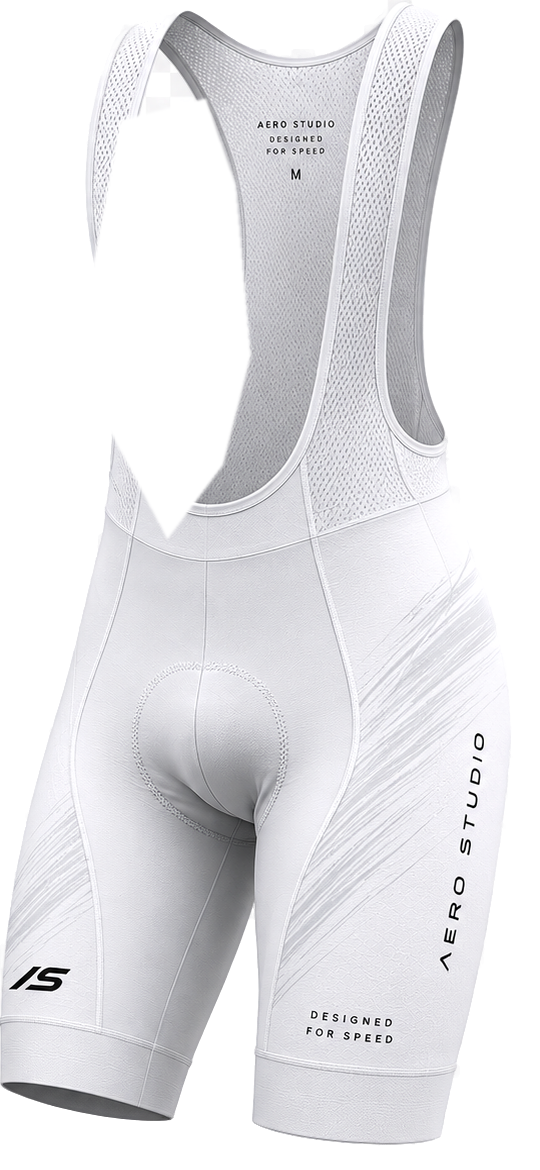
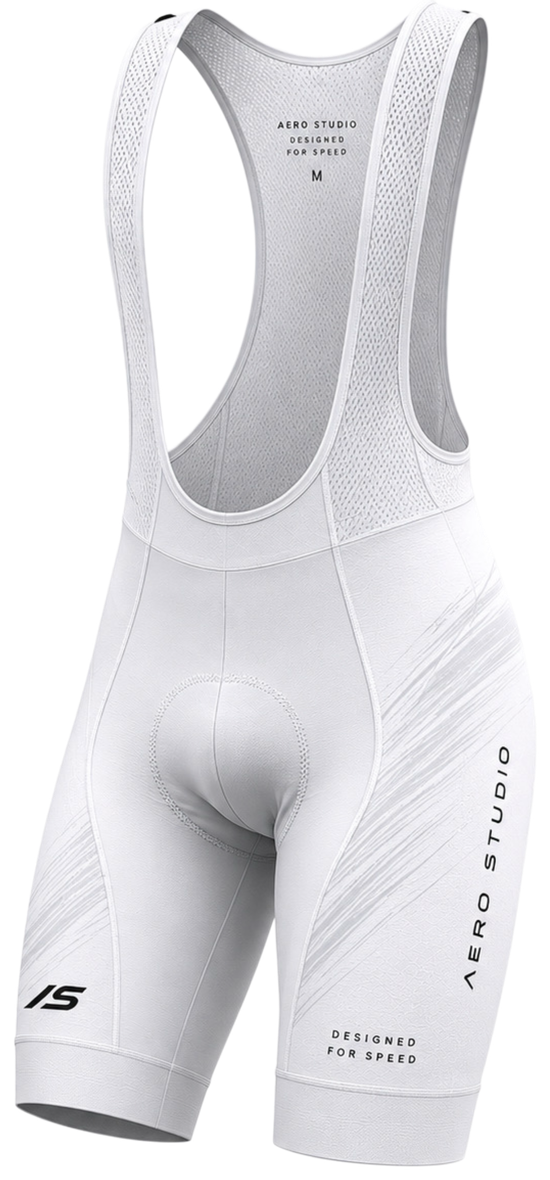
Use supplied transparent white kit assets

diff --git a/src/App.jsx b/src/App.jsx
@@ -9,6 +9,7 @@ const assets = {
   fabric: '/assets/fabric-detail.jpeg',
   helmet: '/assets/helmet-closeup.jpeg',
   mark: '/assets/aero-mark.jpeg',
+  whiteKit: '/assets/white-kit-transparent.png',
   whiteJerseySource: '/assets/aero-jersey-white-source.jpg',
   blackKitSource: '/assets/aero-kit-black-source.jpg',
   whiteJersey: '/assets/product-cutout-jersey-white.png',
@@ -21,10 +22,11 @@ const contactEmail = 'aero.studio@outlook.com'
 
 const storyImages = [
   {
-    title: 'White Jersey',
-    label: 'race cut / light surface',
-    image: assets.whiteJerseySource,
+    title: 'White Kit',
+    label: 'jersey / strapped bib',
+    image: assets.whiteKit,
     className: 'md:col-span-7 md:row-span-2',
+    imageClassName: 'object-contain p-8 sm:p-12',
   },
   {
     title: 'Rider Kit',
@@ -231,7 +233,7 @@ function StoryCard({ item, index }) {
       <motion.img
         src={item.image}
         alt={item.title}
-        className="h-full w-full object-cover grayscale transition duration-1000 group-hover:scale-105"
+        className={`h-full w-full grayscale transition duration-1000 group-hover:scale-105 ${item.imageClassName ?? 'object-cover'}`}
         initial={{ scale: 1.1 }}
         whileInView={{ scale: 1.01 }}
         viewport={{ once: true }}
